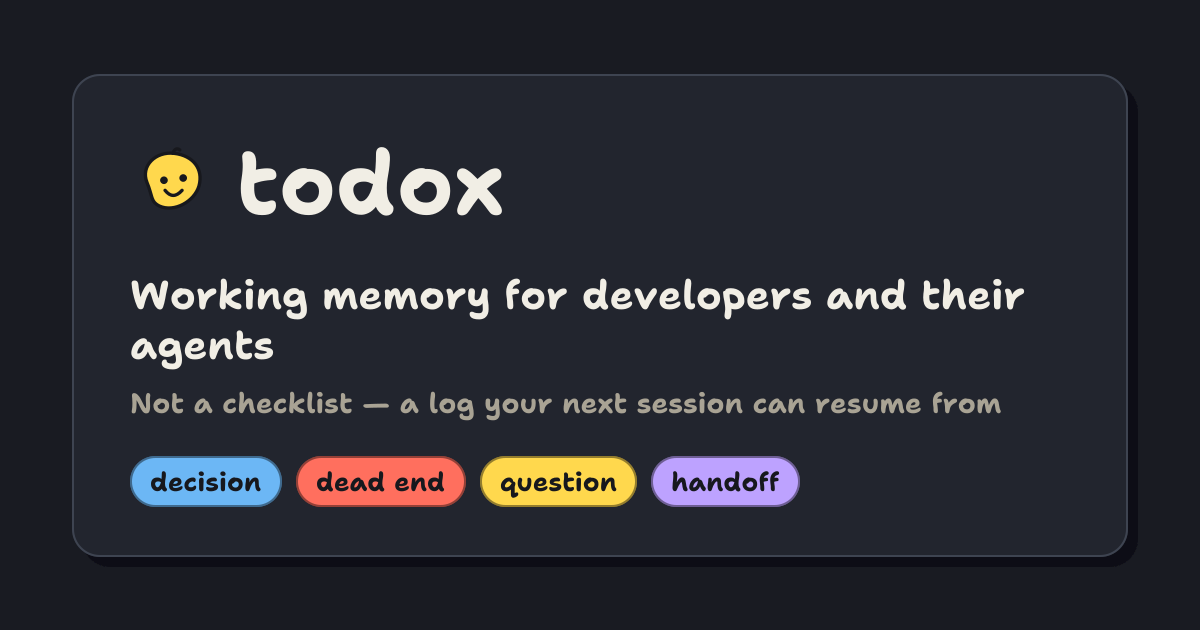
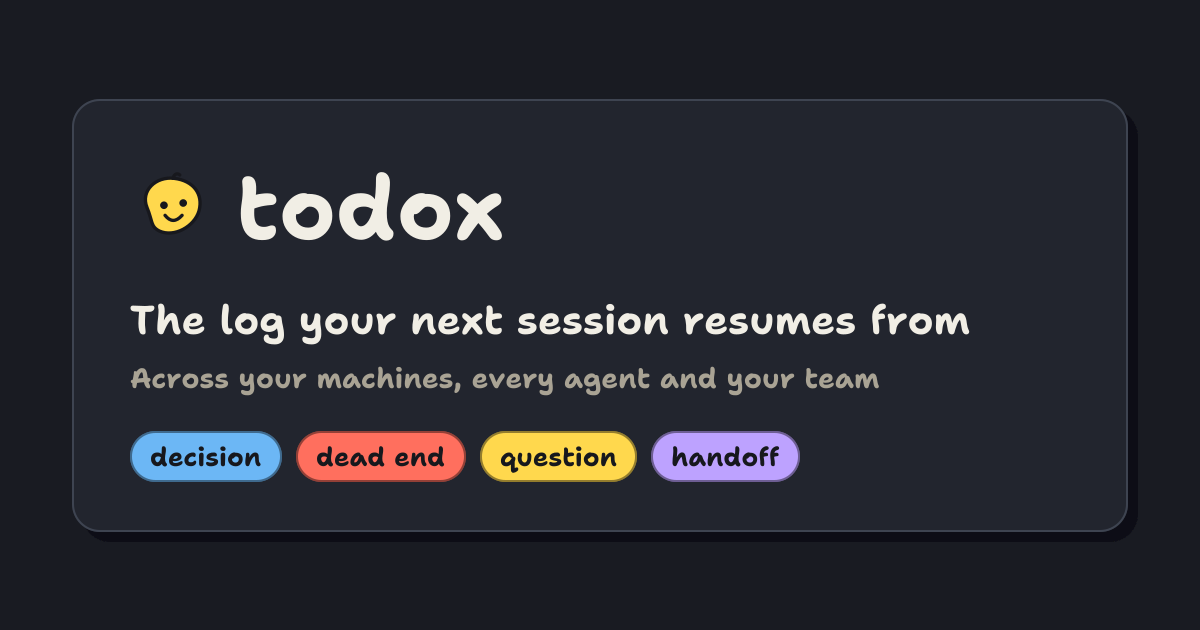
chore(og): say the new hero on the social card
The card still said "Working memory for developers and their agents"
after the landing stopped positioning on the word memory (#135). It is
the one image every shared link and every crawler shows, so it says
what the hero says now, with the three lines the built-in memory does
not cross as the subtitle.

app/opengraph-image.png serves itself; docs/social-preview.png is the
copy GitHub's repository settings take by hand.

diff --git a/scripts/make-og.tsx b/scripts/make-og.tsx
@@ -126,7 +126,7 @@ async function main() {
           </div>
 
           <div style={{ display: "flex", marginTop: 28, fontSize: 40, lineHeight: 1.25 }}>
-            Working memory for developers and their agents
+            The log your next session resumes from
           </div>
 
           <div
@@ -138,7 +138,7 @@ async function main() {
               fontFamily: "sans-serif",
             }}
           >
-            Not a checklist — a log your next session can resume from
+            Across your machines, every agent and your team
           </div>
 
           <div style={{ display: "flex", gap: 14, marginTop: 34 }}>
